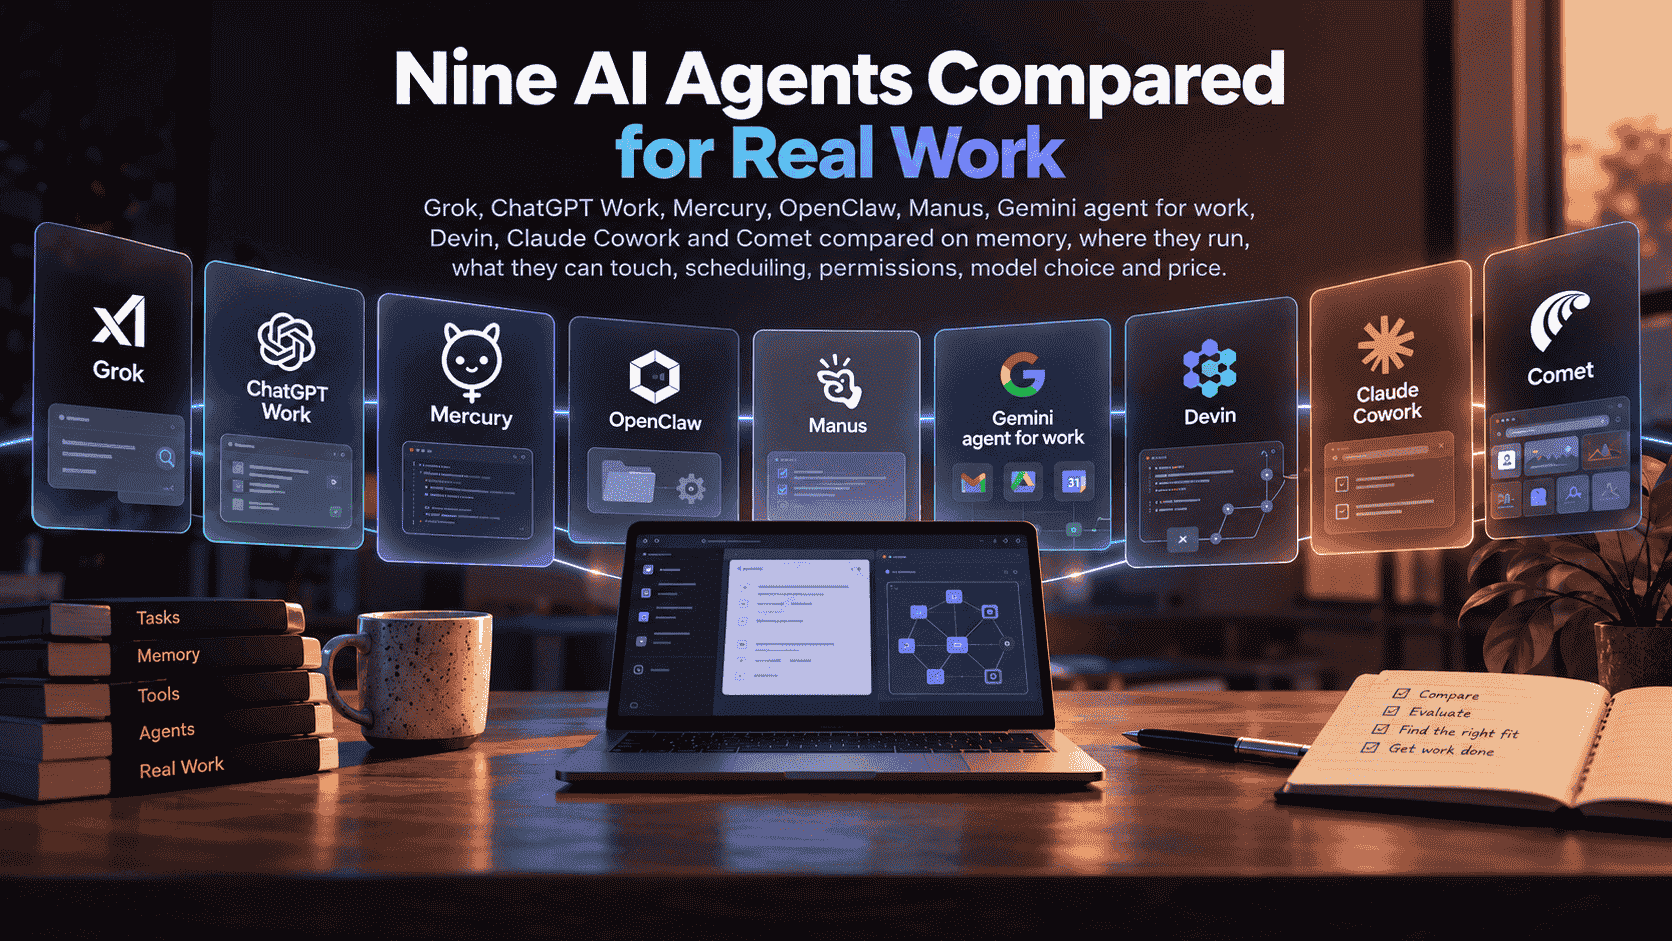
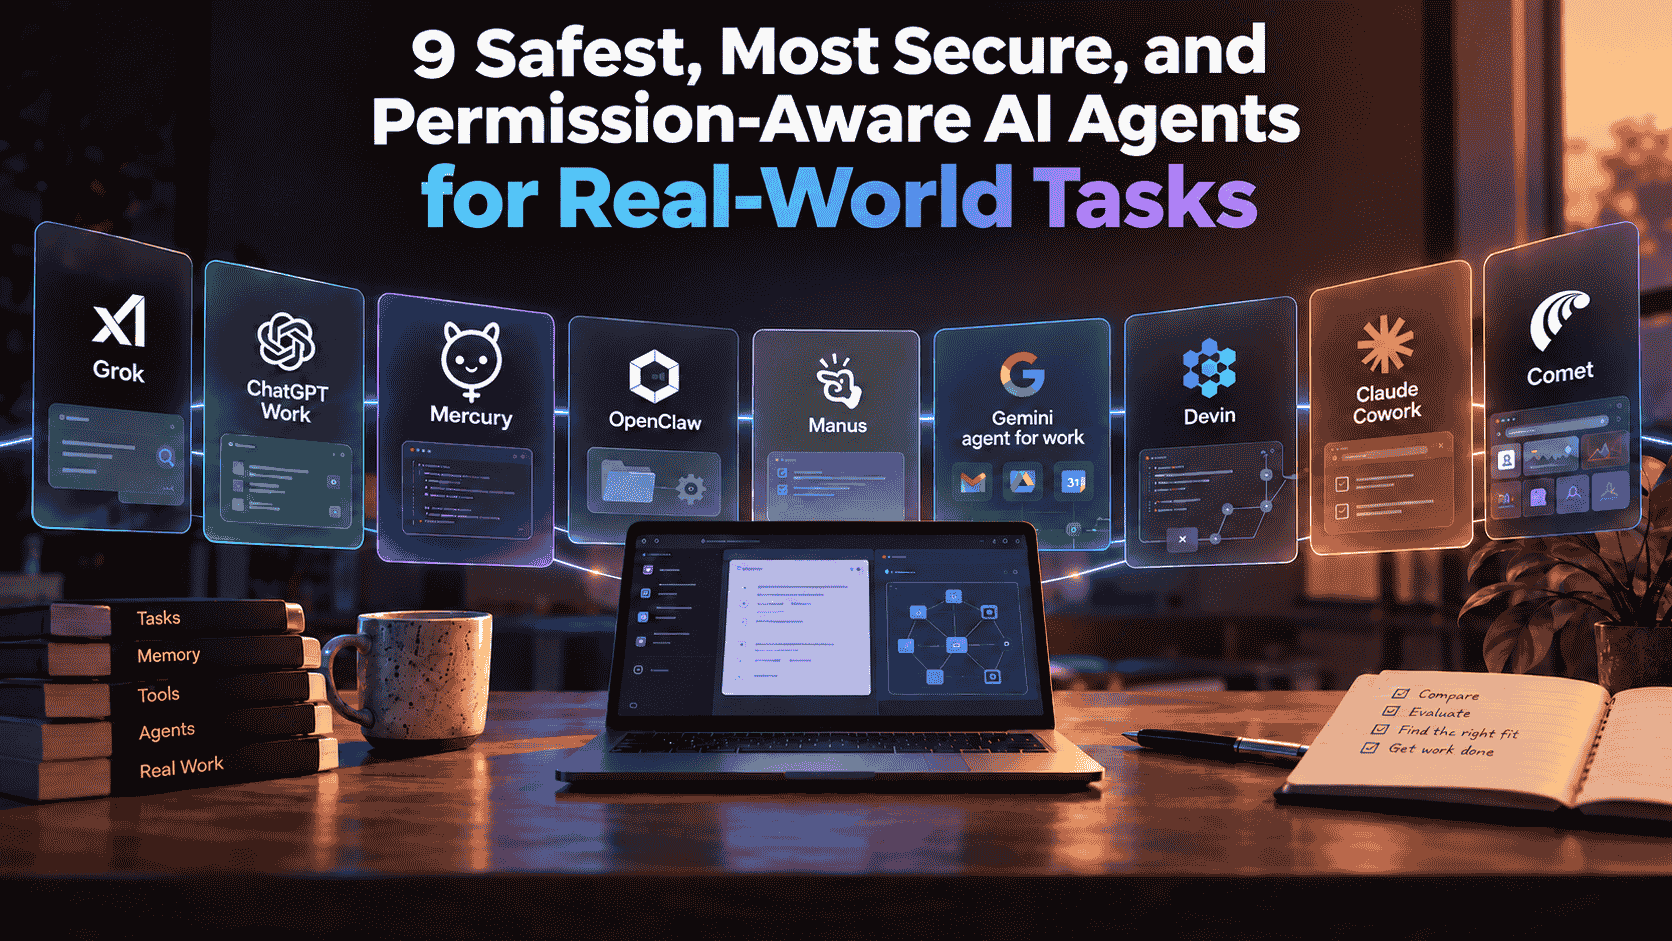
updated AI Agent Article

diff --git a/website/blog/2026-11-05-six-ai-agents-compared-for-real-work/index.md b/website/blog/2026-11-05-six-ai-agents-compared-for-real-work/index.md
@@ -1,6 +1,6 @@
 ---
 slug: six-ai-agents-compared-for-real-work
-title: "Nine AI Agents Compared for Real Work"
+title: "9 Safest, Most Secure, and Permission-Aware AI Agents for Real-World Tasks"
 description: "Grok, ChatGPT Work, Mercury, OpenClaw, Manus, Gemini agent for work, Devin, Claude Cowork and Comet compared on memory, where they run, what they can touch, scheduling, permissions, model choice and price."
 authors: [tashiriskhan]
 tags: [engineering, product, ai-agents, ai-agent-comparison, self-hosted-ai, ai-agent-memory]
